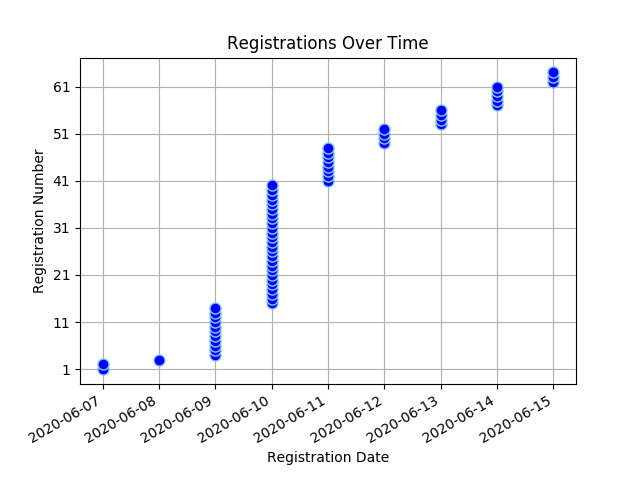
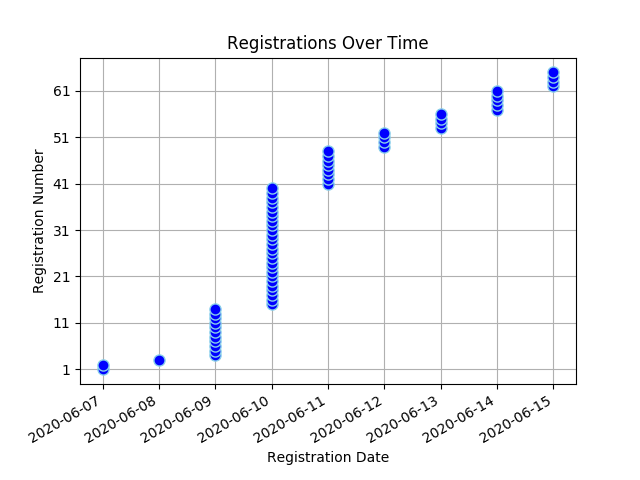
Registree stats backup on Mon Jun 15 10:14:42 SAST 2020

diff --git a/content/virtual_conf_stats/_index.md b/content/virtual_conf_stats/_index.md
@@ -16,7 +16,7 @@ draft: false
 </head>
 <body>
 <h1 style="color: #000000;">Virtual Convention Registration Stats</h1>
-<ul><li><strong>Number of Registrees</strong>: 64</li>
+<ul><li><strong>Number of Registrees</strong>: 65</li>
 </ul><a href="/docs/virtual_convention_stats.csv">Download registration details here</a>
 <h2>Registrees</h2>
 <table id="registreeTable" class="tablesorter" border="1" padding=1>
@@ -60,6 +60,7 @@ Club
 <tr><td>Lang, James</td><td>The Lions Club of Gordon's Bay</td></tr>
 <tr><td>Lang, Paula</td><td>Gordons Bay</td></tr>
 <tr><td>Marchant, Richard</td><td>The Wilds - Johannesburg</td></tr>
+<tr><td>Mare, Beaulieu</td><td>Benoni Lakes</td></tr>
 <tr><td>Mare, Nicholas</td><td>Benoni Lakes Lions</td></tr>
 <tr><td>Meltzer, Mark</td><td>THE WILDS</td></tr>
 <tr><td>Meyer, Denis</td><td>Port Shepstone</td></tr>
